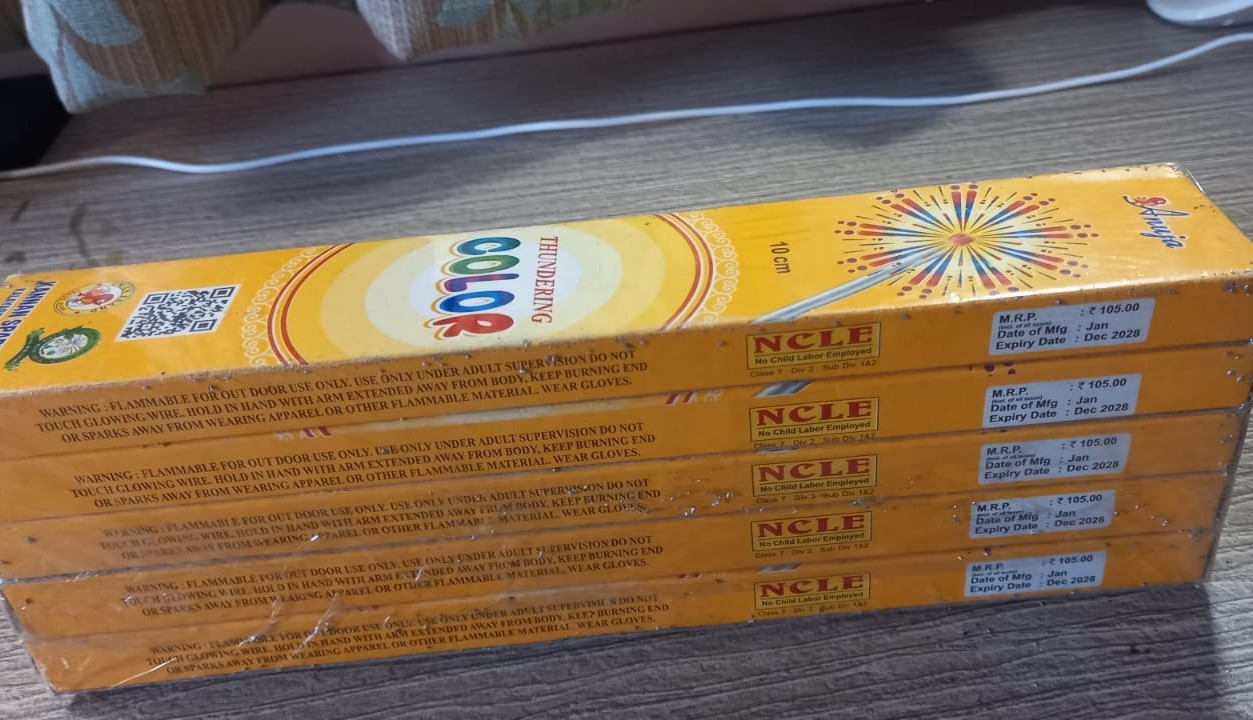
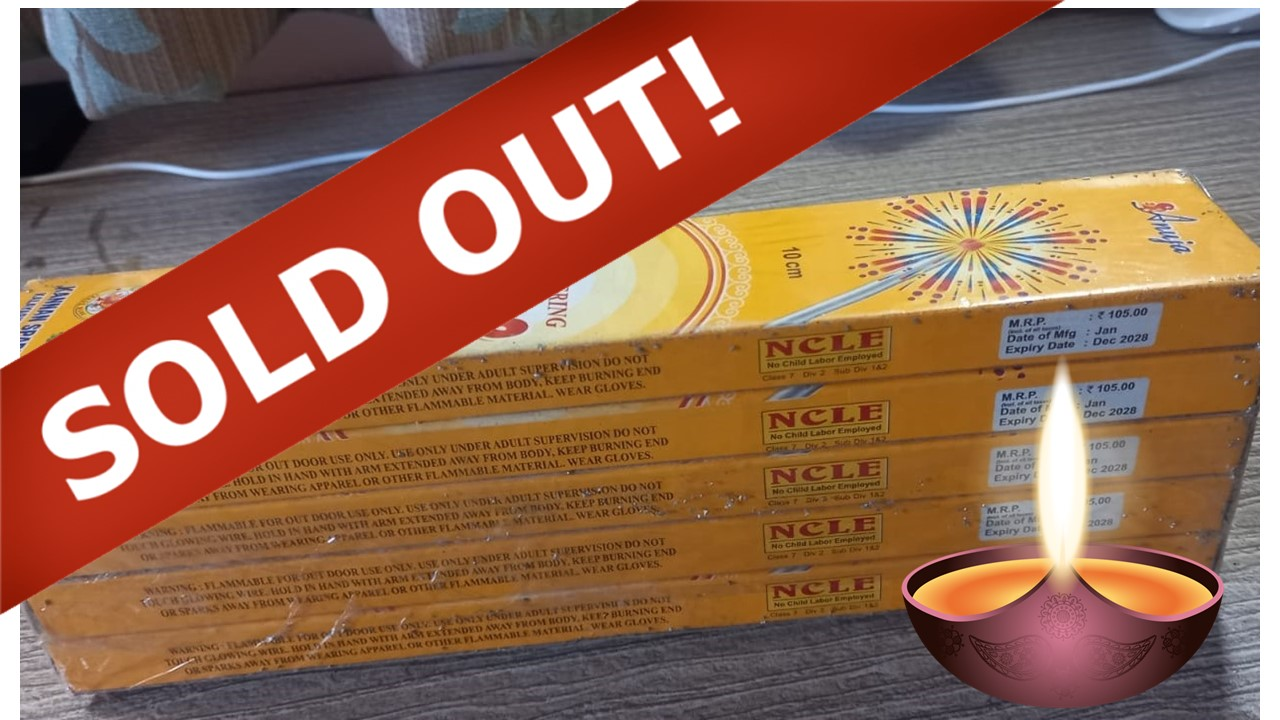
33edit

diff --git a/Desktop/cat.js b/Desktop/cat.js
@@ -42,14 +42,6 @@ function buynoww2(){
     var amount=s.innerText;
     document.getElementById("proamount").value = "Product Amount: "+amount;
 }
-function buynoww3(){
-    var t= document.getElementById("itemname3");
-    var name=t.innerText;
-    document.getElementById("proname").value = "Product Name: "+name;
-    var s= document.getElementById("itemamount3");
-    var amount=s.innerText;
-    document.getElementById("proamount").value = "Product Amount: "+amount;
-}
 function buynoww4(){
     var t= document.getElementById("itemname4");
     var name=t.innerText;
@@ -101,69 +93,12 @@ function buynoww11(){
     var amount=s.innerText;
     document.getElementById("proamount").value = "Product Amount: "+amount;
 }
-function buynoww12(){
-    var t= document.getElementById("itemname12");
-    var name=t.innerText;
-    document.getElementById("proname").value = "Product Name: "+name;
-    var s= document.getElementById("itemamount12");
-    var amount=s.innerText;
-    document.getElementById("proamount").value = "Product Amount: "+amount;
-}
-function buynoww13(){
-    var t= document.getElementById("itemname13");
-    var name=t.innerText;
-    document.getElementById("proname").value = "Product Name: "+name;
-    var s= document.getElementById("itemamount13");
-    var amount=s.innerText;
-    document.getElementById("proamount").value = "Product Amount: "+amount;
-}
 
-function buynoww15(){
-    var t= document.getElementById("itemname15");
-    var name=t.innerText;
-    document.getElementById("proname").value = "Product Name: "+name;
-    var s= document.getElementById("itemamount15");
-    var amount=s.innerText;
-    document.getElementById("proamount").value = "Product Amount: "+amount;
-}
-function buynoww16(){
-    var t= document.getElementById("itemname16");
-    var name=t.innerText;
-    document.getElementById("proname").value = "Product Name: "+name;
-    var s= document.getElementById("itemamount16");
-    var amount=s.innerText;
-    document.getElementById("proamount").value = "Product Amount: "+amount;
-}
-function buynoww19(){
-    var t= document.getElementById("itemname19");
-    var name=t.innerText;
-    document.getElementById("proname").value = "Product Name: "+name;
-    var s= document.getElementById("itemamount19");
-    var amount=s.innerText;
-    document.getElementById("proamount").value = "Product Amount: "+amount;
-}
 function buynoww21(){
     var t= document.getElementById("itemname21");
     var name=t.innerText;
     document.getElementById("proname").value = "Product Name: "+name;
     var s= document.getElementById("itemamount21");
-    var amount=s.innerText;
-    document.getElementById("proamount").value = "Product Amount: "+amount;
-}
-function buynoww24(){
-    var t= document.getElementById("itemname24");
-    var name=t.innerText;
-    document.getElementById("proname").value = "Product Name: "+name;
-    var s= document.getElementById("itemamount24");
-    var amount=s.innerText;
-    document.getElementById("proamount").value = "Product Amount: "+amount;
-}
-
-function buynoww26(){
-    var t= document.getElementById("itemname26");
-    var name=t.innerText;
-    document.getElementById("proname").value = "Product Name: "+name;
-    var s= document.getElementById("itemamount26");
     var amount=s.innerText;
     document.getElementById("proamount").value = "Product Amount: "+amount;
 }

diff --git a/Mobile/cat.js b/Mobile/cat.js
@@ -42,14 +42,6 @@ function buynoww2(){
     var amount=s.innerText;
     document.getElementById("proamount").value = "Product Amount: "+amount;
 }
-function buynoww3(){
-    var t= document.getElementById("itemname3");
-    var name=t.innerText;
-    document.getElementById("proname").value = "Product Name: "+name;
-    var s= document.getElementById("itemamount3");
-    var amount=s.innerText;
-    document.getElementById("proamount").value = "Product Amount: "+amount;
-}
 function buynoww4(){
     var t= document.getElementById("itemname4");
     var name=t.innerText;
@@ -101,69 +93,12 @@ function buynoww11(){
     var amount=s.innerText;
     document.getElementById("proamount").value = "Product Amount: "+amount;
 }
-function buynoww12(){
-    var t= document.getElementById("itemname12");
-    var name=t.innerText;
-    document.getElementById("proname").value = "Product Name: "+name;
-    var s= document.getElementById("itemamount12");
-    var amount=s.innerText;
-    document.getElementById("proamount").value = "Product Amount: "+amount;
-}
-function buynoww13(){
-    var t= document.getElementById("itemname13");
-    var name=t.innerText;
-    document.getElementById("proname").value = "Product Name: "+name;
-    var s= document.getElementById("itemamount13");
-    var amount=s.innerText;
-    document.getElementById("proamount").value = "Product Amount: "+amount;
-}
 
-function buynoww15(){
-    var t= document.getElementById("itemname15");
-    var name=t.innerText;
-    document.getElementById("proname").value = "Product Name: "+name;
-    var s= document.getElementById("itemamount15");
-    var amount=s.innerText;
-    document.getElementById("proamount").value = "Product Amount: "+amount;
-}
-function buynoww16(){
-    var t= document.getElementById("itemname16");
-    var name=t.innerText;
-    document.getElementById("proname").value = "Product Name: "+name;
-    var s= document.getElementById("itemamount16");
-    var amount=s.innerText;
-    document.getElementById("proamount").value = "Product Amount: "+amount;
-}
-function buynoww19(){
-    var t= document.getElementById("itemname19");
-    var name=t.innerText;
-    document.getElementById("proname").value = "Product Name: "+name;
-    var s= document.getElementById("itemamount19");
-    var amount=s.innerText;
-    document.getElementById("proamount").value = "Product Amount: "+amount;
-}
 function buynoww21(){
     var t= document.getElementById("itemname21");
     var name=t.innerText;
     document.getElementById("proname").value = "Product Name: "+name;
     var s= document.getElementById("itemamount21");
-    var amount=s.innerText;
-    document.getElementById("proamount").value = "Product Amount: "+amount;
-}
-function buynoww24(){
-    var t= document.getElementById("itemname24");
-    var name=t.innerText;
-    document.getElementById("proname").value = "Product Name: "+name;
-    var s= document.getElementById("itemamount24");
-    var amount=s.innerText;
-    document.getElementById("proamount").value = "Product Amount: "+amount;
-}
-
-function buynoww26(){
-    var t= document.getElementById("itemname26");
-    var name=t.innerText;
-    document.getElementById("proname").value = "Product Name: "+name;
-    var s= document.getElementById("itemamount26");
     var amount=s.innerText;
     document.getElementById("proamount").value = "Product Amount: "+amount;
 }

diff --git a/Desktop/catalogs.html b/Desktop/catalogs.html
@@ -37,7 +37,7 @@
         <h3 id="itemname3">Rocket spinner</h3>
         <p style="color: yellow;" >MRP- ₹900</p>
         <h6 id="itemamount3">Our Price- ₹499</h6>
-        <button onclick="buynoww3()" class="buy-4"><a href="#formtp">Buy Now</a></button>
+        <button class="buy-4"><a>Sold Out!!</a></button>
     </div>
 
 
@@ -122,7 +122,7 @@
         <h3 id="itemname12">Magic Phool Jadi</h3>
         <p style="color: yellow;" >MRP- ₹750</p>
         <h6 id="itemamount12">Our Price- ₹199</h6>
-        <button onclick="buynoww12()" class="buy-4"><a href="#formtp">Buy Now</a></button>
+        <button class="buy-4"><a>Sold Out!!</a></button>
     </div>
 
     <div class="content">
@@ -130,7 +130,7 @@
         <h3 id="itemname13">Super Sky shot</h3>
         <p style="color: yellow;" >MRP- ₹2490</p>
         <h6 id="itemamount13">Our Price- ₹1999</h6>
-        <button onclick="buynoww13()" class="buy-4"><a href="#formtp">Buy Now</a></button>
+        <button class="buy-4"><a>Sold Out!!</a></button>
     </div>
 
     <!-- Second item: Thumbs Up -->
@@ -148,7 +148,7 @@
         <h3 id="itemname15">Kungfu Ladi</h3>
         <p style="color: yellow;">MRP- ₹450</p>
         <h6 id="itemamount15">Our Price- ₹249</h6>
-        <button onclick="buynoww15()" class="buy-4"><a href="#formtp">Buy Now</a></button>
+        <button class="buy-4"><a>Sold Out!!</a></button>
     </div>
     
     <div class="content">
@@ -156,7 +156,7 @@
         <h3 id="itemname16">Super sparkle</h3>
         <p style="color: yellow;">MRP- ₹320</p>
         <h6 id="itemamount16">Our Price- ₹199</h6>
-        <button onclick="buynoww16()" class="buy-4"><a href="#formtp">Buy Now</a></button>
+        <button class="buy-4"><a>Sold Out!!</a></button>
     </div>
     
     <div class="content">
@@ -180,7 +180,7 @@
         <h3 id="itemname19">Selfie shots</h3>
         <p style="color: yellow;">MRP- ₹1200</p>
         <h6 id="itemamount19">Our Price- ₹999</h6>
-        <button onclick="buynoww19()" class="buy-4"><a href="#formtp">Buy Now</a></button>
+        <button class="buy-4"><a>Sold Out!!</a></button>
     </div>
     
     <div class="content">
@@ -220,7 +220,7 @@
         <h3 id="itemname24">Color phool jadi</h3>
         <p style="color: yellow;">MRP- ₹105</p>
         <h6 id="itemamount24">Our Price- ₹69</h6>
-        <button onclick="buynoww24()" class="buy-4"><a href="#formtp">Buy Now</a></button>
+        <button class="buy-4"><a>Sold Out!!</a></button>
     </div>
     
     <div class="content">
@@ -236,7 +236,7 @@
         <h3 id="itemname26">Colorful anar</h3>
         <p style="color: yellow;">MRP- ₹280</p>
         <h6 id="itemamount26">Our Price- ₹199</h6>
-        <button onclick="buynoww26()" class="buy-4"><a href="#formtp">Buy Now</a></button>
+        <button class="buy-4"><a>Sold Out!!</a></button>
     </div>
     
     <div class="content">

diff --git a/Mobile/catalogs.html b/Mobile/catalogs.html
@@ -37,7 +37,7 @@
         <h3 id="itemname3">Rocket spinner</h3>
         <p style="color: yellow;" >MRP- ₹900</p>
         <h6 id="itemamount3">Our Price- ₹499</h6>
-        <button onclick="buynoww3()" class="buy-4"><a href="#formtp">Buy Now</a></button>
+        <button class="buy-4"><a>Sold Out!!</a></button>
     </div>
 
 
@@ -122,7 +122,7 @@
         <h3 id="itemname12">Magic Phool Jadi</h3>
         <p style="color: yellow;" >MRP- ₹750</p>
         <h6 id="itemamount12">Our Price- ₹199</h6>
-        <button onclick="buynoww12()" class="buy-4"><a href="#formtp">Buy Now</a></button>
+        <button class="buy-4"><a>Sold Out!!</a></button>
     </div>
 
     <div class="content">
@@ -130,7 +130,7 @@
         <h3 id="itemname13">Super Sky shot</h3>
         <p style="color: yellow;" >MRP- ₹2490</p>
         <h6 id="itemamount13">Our Price- ₹1999</h6>
-        <button onclick="buynoww13()" class="buy-4"><a href="#formtp">Buy Now</a></button>
+        <button class="buy-4"><a>Sold Out!!</a></button>
     </div>
 
     <!-- Second item: Thumbs Up -->
@@ -148,7 +148,7 @@
         <h3 id="itemname15">Kungfu Ladi</h3>
         <p style="color: yellow;">MRP- ₹450</p>
         <h6 id="itemamount15">Our Price- ₹249</h6>
-        <button onclick="buynoww15()" class="buy-4"><a href="#formtp">Buy Now</a></button>
+        <button class="buy-4"><a>Sold Out!!</a></button>
     </div>
     
     <div class="content">
@@ -156,7 +156,7 @@
         <h3 id="itemname16">Super sparkle</h3>
         <p style="color: yellow;">MRP- ₹320</p>
         <h6 id="itemamount16">Our Price- ₹199</h6>
-        <button onclick="buynoww16()" class="buy-4"><a href="#formtp">Buy Now</a></button>
+        <button class="buy-4"><a>Sold Out!!</a></button>
     </div>
     
     <div class="content">
@@ -180,7 +180,7 @@
         <h3 id="itemname19">Selfie shots</h3>
         <p style="color: yellow;">MRP- ₹1200</p>
         <h6 id="itemamount19">Our Price- ₹999</h6>
-        <button onclick="buynoww19()" class="buy-4"><a href="#formtp">Buy Now</a></button>
+        <button class="buy-4"><a>Sold Out!!</a></button>
     </div>
     
     <div class="content">
@@ -220,7 +220,7 @@
         <h3 id="itemname24">Color phool jadi</h3>
         <p style="color: yellow;">MRP- ₹105</p>
         <h6 id="itemamount24">Our Price- ₹69</h6>
-        <button onclick="buynoww24()" class="buy-4"><a href="#formtp">Buy Now</a></button>
+        <button class="buy-4"><a>Sold Out!!</a></button>
     </div>
     
     <div class="content">
@@ -236,7 +236,7 @@
         <h3 id="itemname26">Colorful anar</h3>
         <p style="color: yellow;">MRP- ₹280</p>
         <h6 id="itemamount26">Our Price- ₹199</h6>
-        <button onclick="buynoww26()" class="buy-4"><a href="#formtp">Buy Now</a></button>
+        <button class="buy-4"><a>Sold Out!!</a></button>
     </div>
     
     <div class="content">
